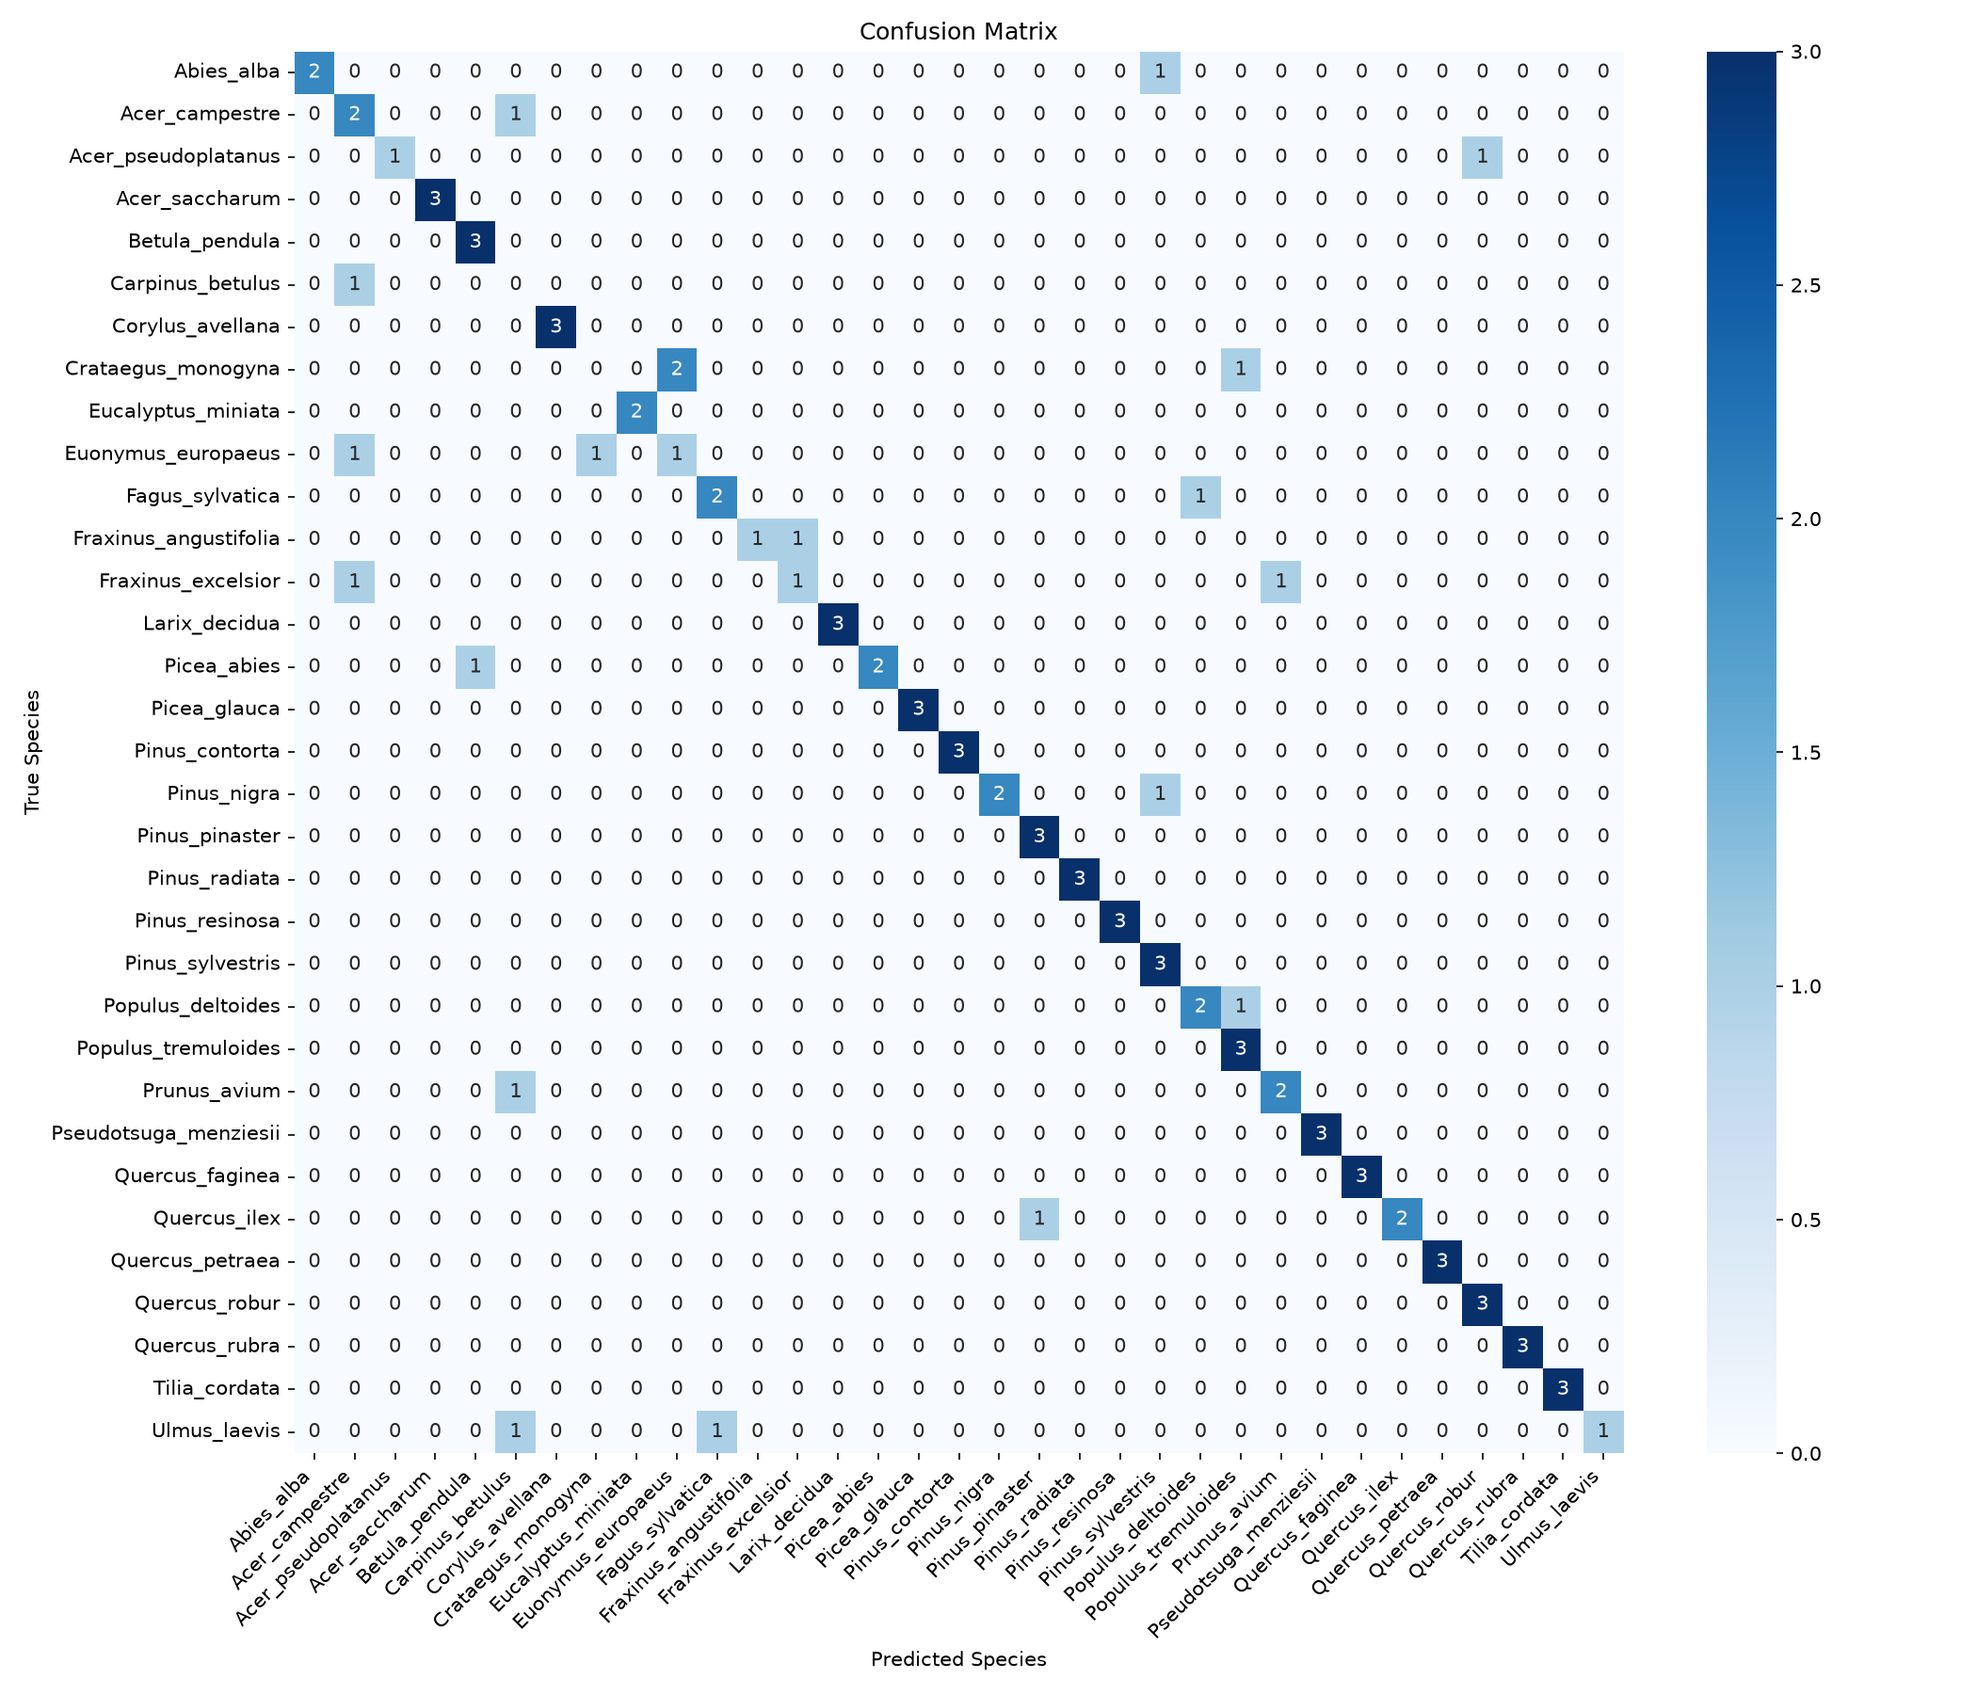
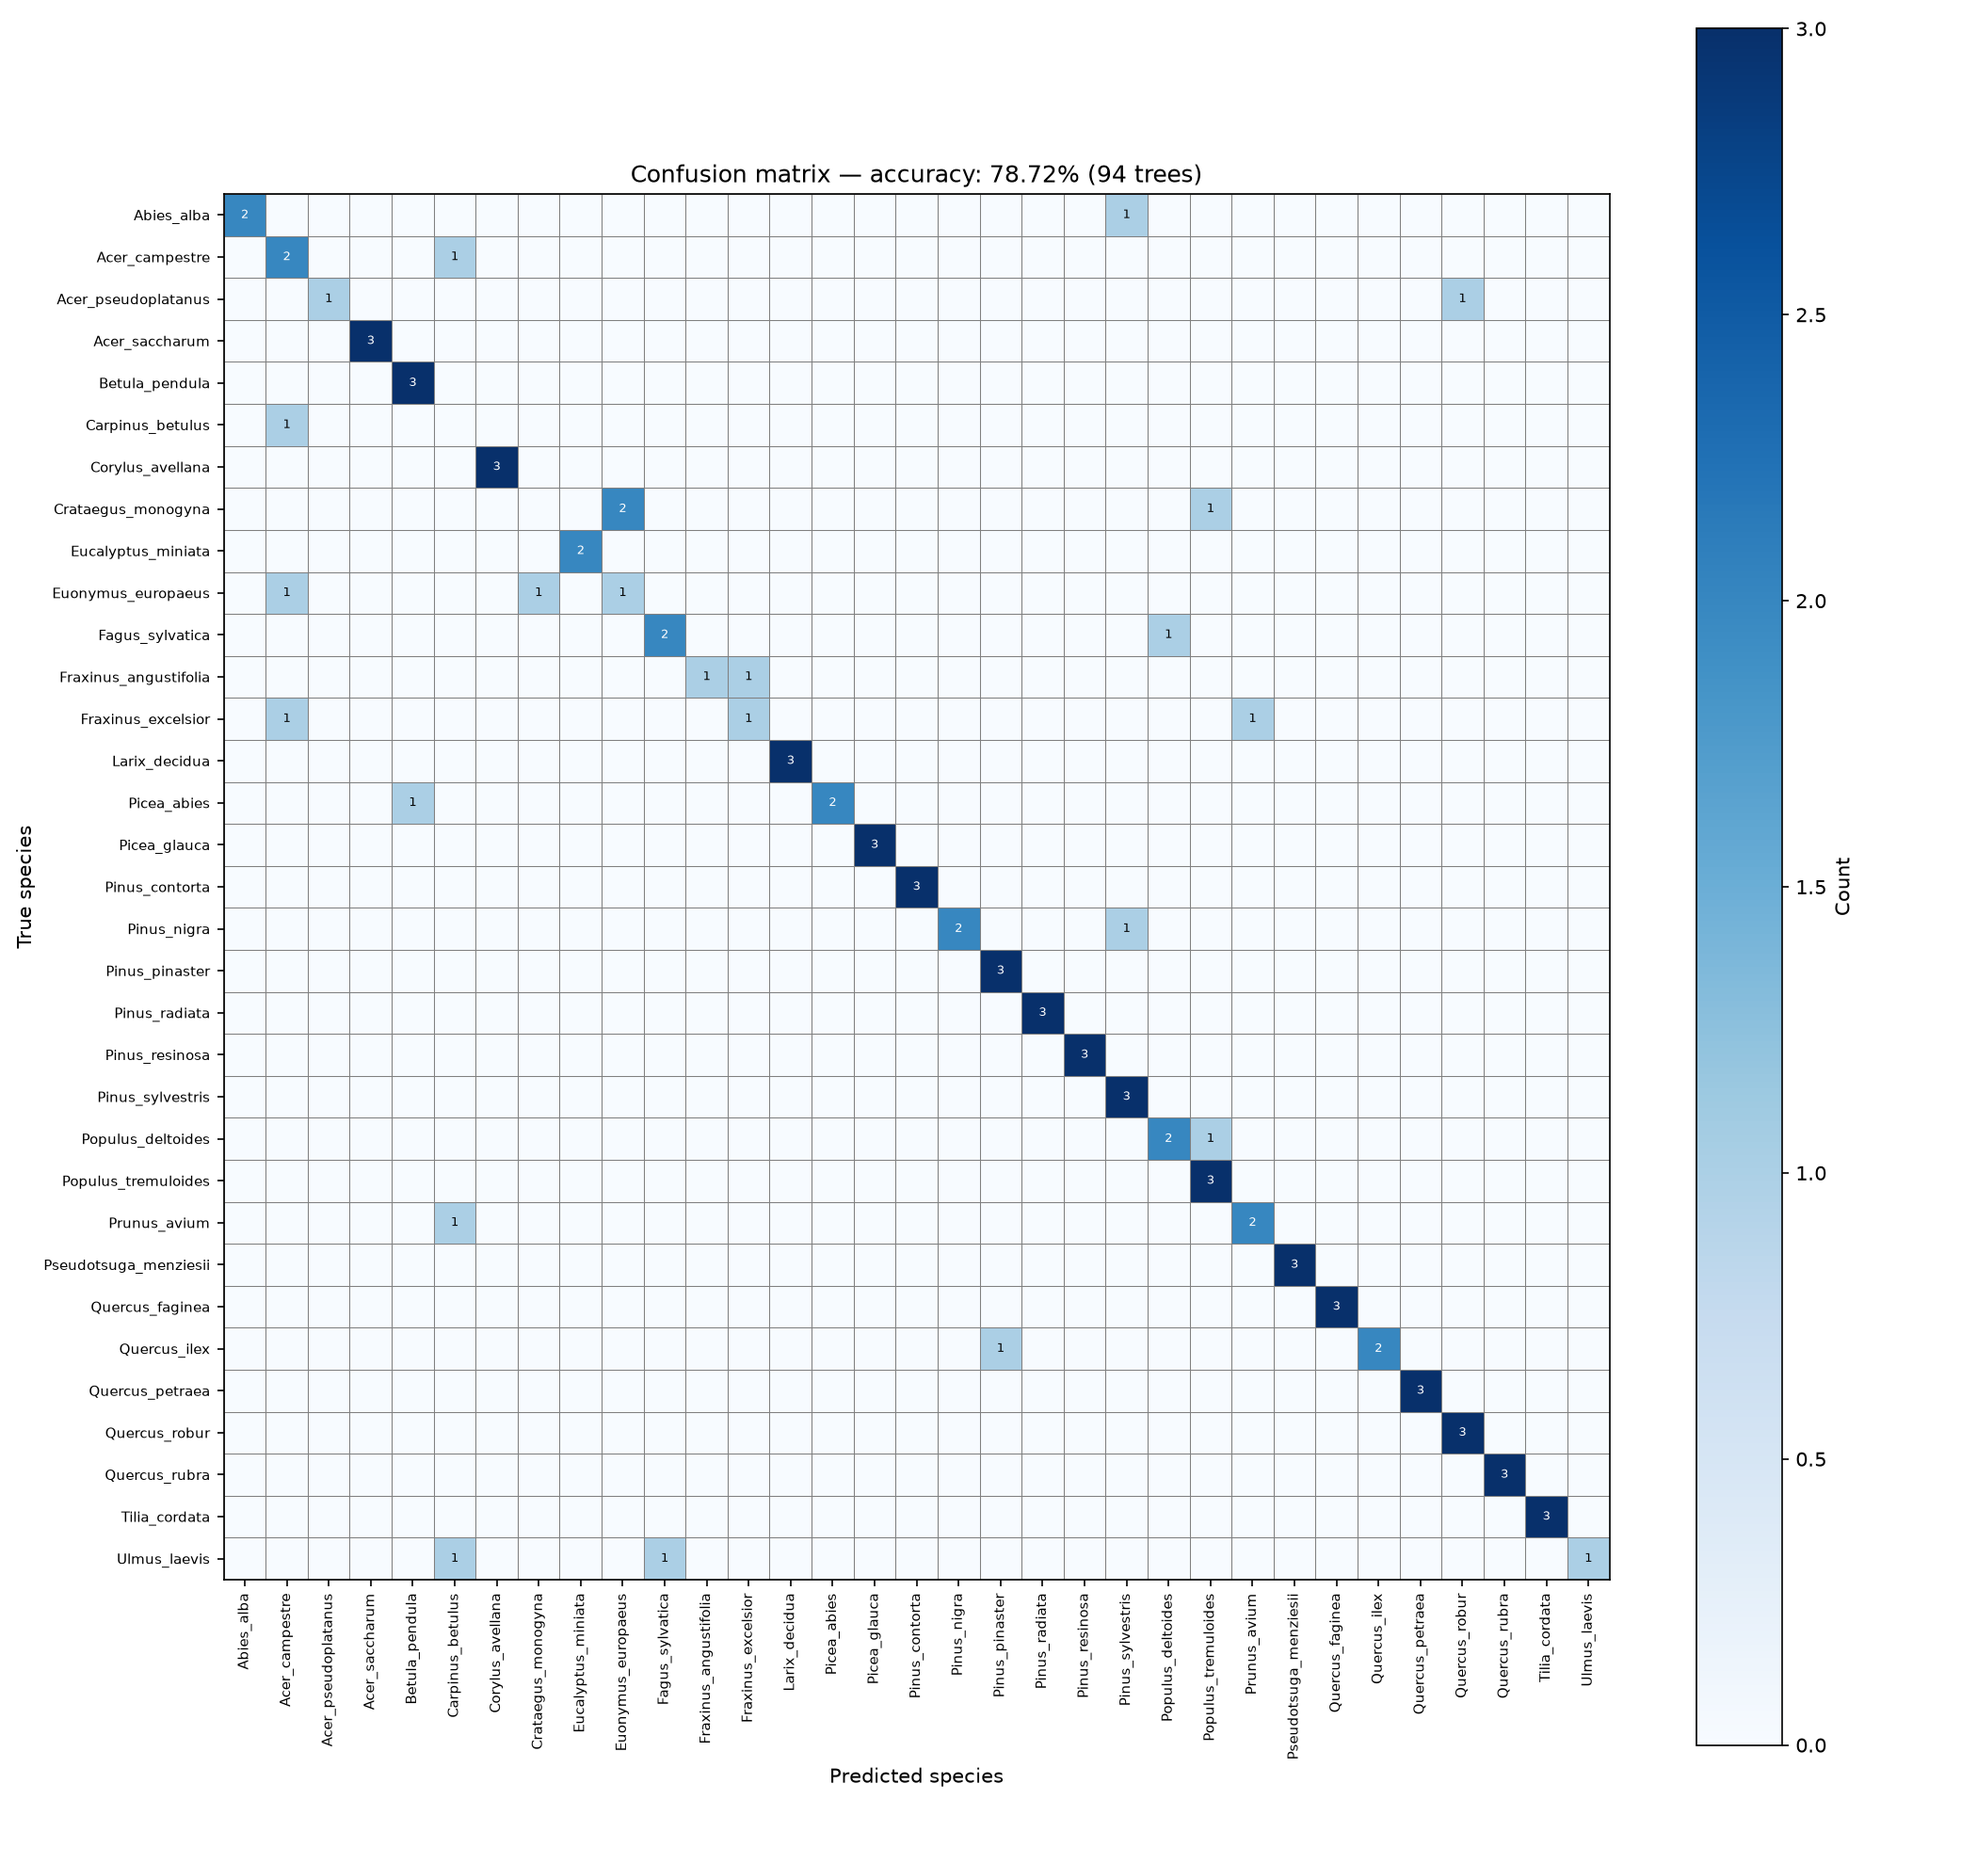
Add evaluation script with confusion matrix generation, update results

diff --git a/evaluate_results.py b/evaluate_results.py
@@ -1,7 +1,10 @@
 import pandas as pd
 import glob
-from sklearn.metrics import accuracy_score, classification_report
+import numpy as np
+from sklearn.metrics import accuracy_score, classification_report, confusion_matrix
+import matplotlib.pyplot as plt
 
+# Load and combine all batch prediction files
 dfs = []
 for i in range(1, 20):
     for f in glob.glob(f'output/{i}/predictions_*.csv'):
@@ -27,3 +30,40 @@ with open('evaluation_results.txt', 'w') as f:
     f.write(report)
 
 merged.to_csv('merged_results.csv', index=False)
+
+# --- Confusion matrix ---
+labels = sorted(merged['species_y'].unique())
+cm = confusion_matrix(merged['species_y'], merged['species_x'], labels=labels)
+cm_df = pd.DataFrame(cm, index=labels, columns=labels)
+cm_df.to_csv('confusion_matrix.csv')
+
+n = len(labels)
+fig, ax = plt.subplots(figsize=(max(14, n * 0.4), max(12, n * 0.4)))
+im = ax.imshow(cm, cmap='Blues')
+
+ax.set_xticks(np.arange(n))
+ax.set_yticks(np.arange(n))
+ax.set_xticklabels(labels, rotation=90, fontsize=7)
+ax.set_yticklabels(labels, fontsize=7)
+
+# Gridlines between cells
+ax.set_xticks(np.arange(-0.5, n, 1), minor=True)
+ax.set_yticks(np.arange(-0.5, n, 1), minor=True)
+ax.grid(which='minor', color='gray', linestyle='-', linewidth=0.5)
+ax.tick_params(which='minor', bottom=False, left=False)
+
+# Count labels inside cells
+thresh = cm.max() / 2.0
+for i in range(n):
+    for j in range(n):
+        if cm[i, j] > 0:
+            ax.text(j, i, str(cm[i, j]), ha='center', va='center',
+                    fontsize=6, color='white' if cm[i, j] > thresh else 'black')
+
+ax.set_xlabel('Predicted species')
+ax.set_ylabel('True species')
+ax.set_title(f'Confusion matrix — accuracy: {acc:.2%} ({len(merged)} trees)')
+fig.colorbar(im, ax=ax, label='Count')
+plt.tight_layout()
+plt.savefig('confusion_matrix.png', dpi=150)
+print("Saved confusion_matrix.csv and confusion_matrix.png")
